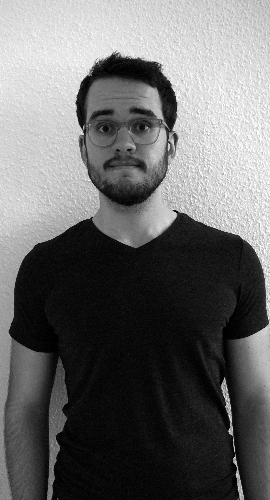
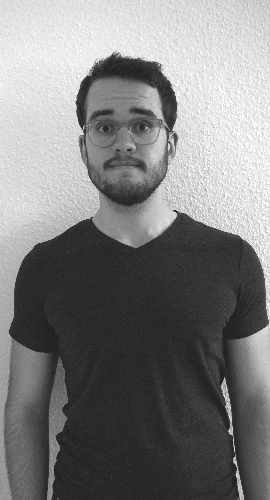
adding max, correcting variable width in for the people images, css corrected

diff --git a/content/pages/people.html b/content/pages/people.html
@@ -106,13 +106,27 @@
         <p class="title">Student Research Assistant</p>
         <p class="blurb"></p>
         <ul class='social-links'>
-          <li><a class='icon-mail' aria-label='Email' href="mailto:Carolin.Brunn@campus.tu-berlin.de "></a></li>
+          <li><a class='icon-mail' aria-label='Email' href="mailto:Carolin.Brunn@campus.tu-berlin.de"></a></li>
         </ul>
       </div>
       </a>
     </div>
     
-    
+     <div class="mem">
+	  <a href="brunn.html"> 
+      <div class="mugshot" style="background-image: url(/img/mp_500.png);"></div>
+      <div class="info">
+		
+        <h3>Maximilian Pohlmann</h3>
+		
+        <p class="title">Student Research Assistant</p>
+        <p class="blurb"></p>
+        <ul class='social-links'>
+          <li><a class='icon-mail' aria-label='Email' href="mailto:m.pohlmann@campus.tu-berlin.de"></a></li>
+        </ul>
+      </div>
+      </a>
+    </div> 
 
     
     <div class="mem">

diff --git a/theme/templates/base.html b/theme/templates/base.html
@@ -16,7 +16,7 @@
   <!-- <link rel="manifest" href="/manifest.json"> -->
   <meta name="theme-color" content="#000000">
 
-  <link rel="stylesheet" type="text/css" href="{{ SITEURL }}/{{ THEME_STATIC_DIR }}/css/style.css?version=16">
+  <link rel="stylesheet" type="text/css" href="{{ SITEURL }}/{{ THEME_STATIC_DIR }}/css/style.css?version=17">
   {% if page and page.url == "index.html" %}
   <style>aside img { display: unset; }</style>
   {% endif %}

diff --git a/theme/static/css/style.css b/theme/static/css/style.css
@@ -541,10 +541,12 @@ aside a.active {
   .members .mem {
     flex-basis: 48%;
     height: 540px;
+    width: 300px;
   }
   .members .mugshot {
     transition: opacity .2s ease-in-out;
     height: 540px;
+    width: 300px;
   }
 
   .members .mem:hover .info, .members .mem:active .info {
